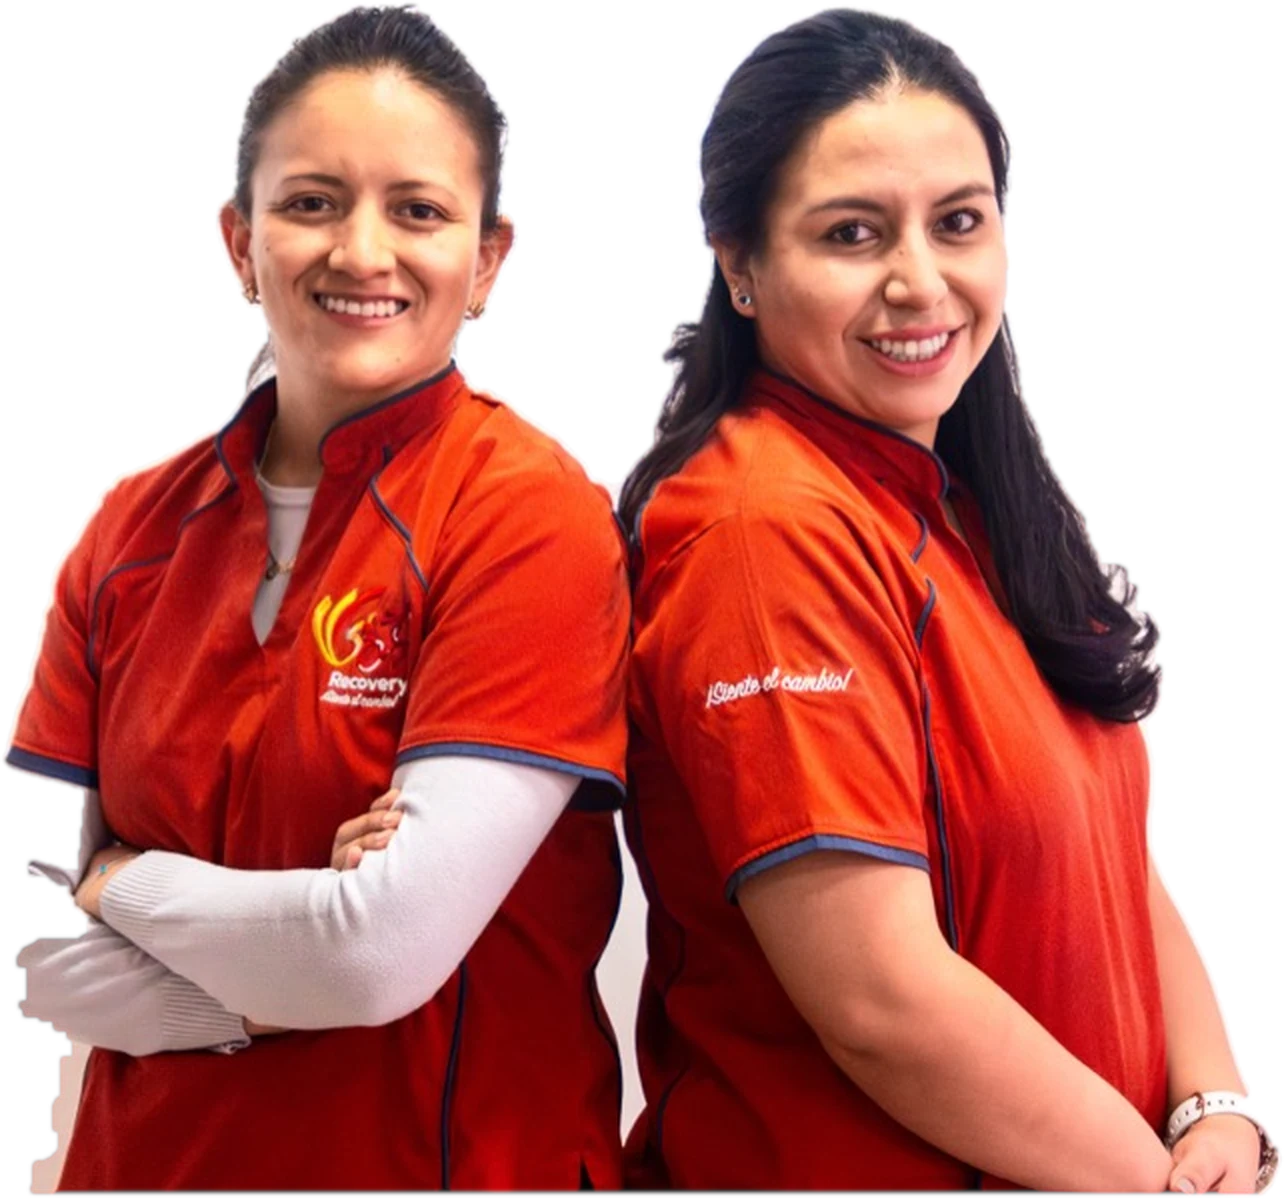
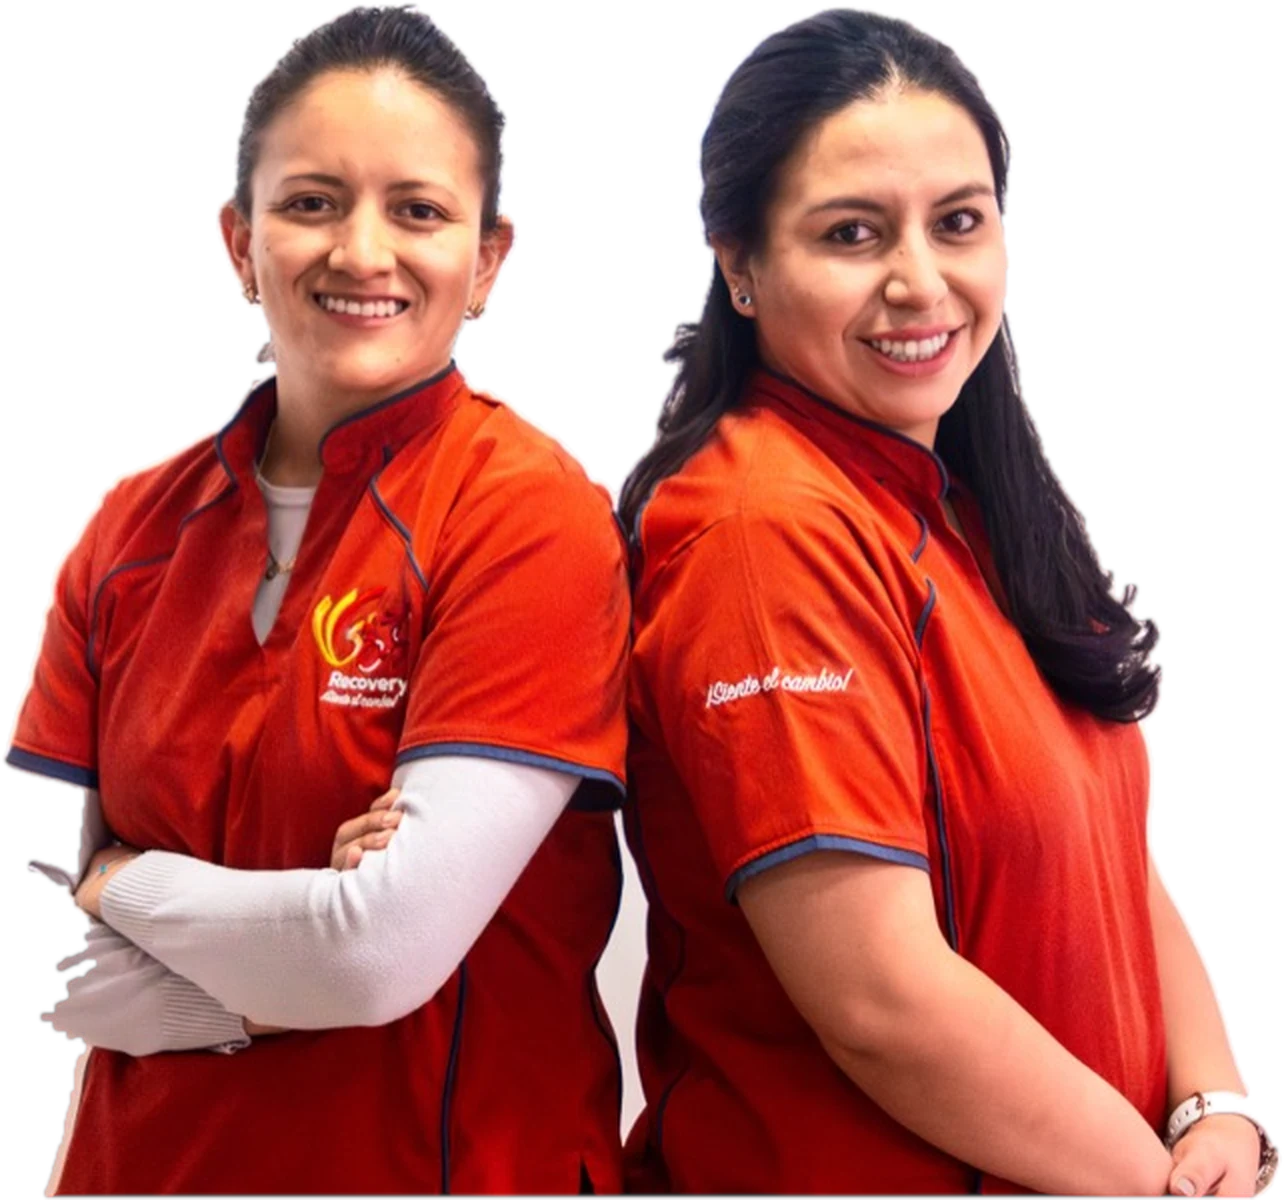
Afinar recorte del equipo y fundido inferior en portada

diff --git a/informe/index.html b/informe/index.html
@@ -62,8 +62,8 @@ img{max-width:100%}
 .hfoto{align-self:end;justify-self:end;position:relative;width:100%;max-width:560px;
   background:none;border:0;border-radius:0;padding:0;margin:0}
 .hfoto img{display:block;width:100%;height:auto;
-  -webkit-mask-image:linear-gradient(180deg,#000 88%,transparent 100%);
-  mask-image:linear-gradient(180deg,#000 88%,transparent 100%)}
+  -webkit-mask-image:linear-gradient(180deg,#000 62%,rgba(0,0,0,.45) 86%,transparent 100%);
+  mask-image:linear-gradient(180deg,#000 62%,rgba(0,0,0,.45) 86%,transparent 100%)}
 @media(max-width:880px){
   .hero{min-height:0}
   .hgrid{grid-template-columns:1fr;gap:0}
@@ -445,7 +445,7 @@ footer{margin-top:60px;padding-top:22px;border-top:1px solid var(--borde);displa
         <p>Las 47 piezas publicadas entre el 1 de enero y el 24 de noviembre, con datos reales de Metricool. Y el plan de contenidos, pauta, automatización e identidad para el trimestre que arranca en diciembre.</p>
       </div>
       <figure class="hfoto">
-        <img src="assets/equipo-recorte.webp" width="1284" height="1198" alt="Fisioterapeutas de Recovery, con el uniforme de la marca" fetchpriority="high">
+        <img src="assets/equipo-recorte.webp" width="1284" height="1200" alt="Fisioterapeutas del equipo de Recovery con el uniforme de la marca" fetchpriority="high">
       </figure>
     </div>
   </div>
